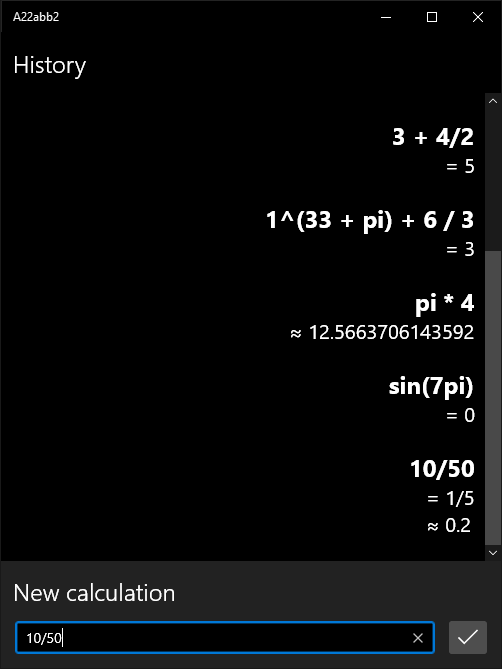
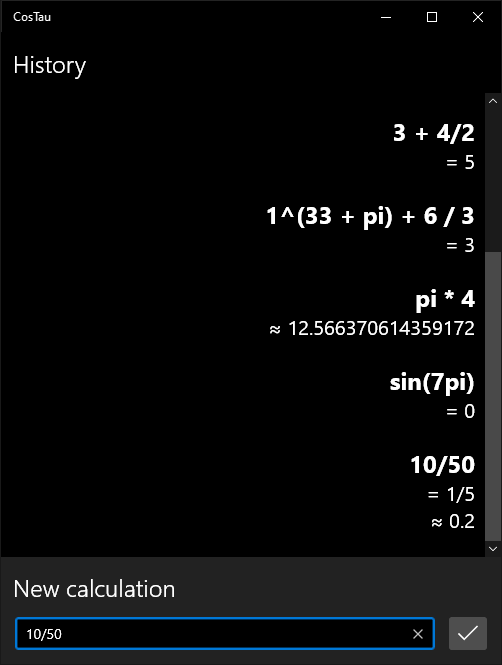
misc: Prepare for new release
Did the following changes:
- update screenshots
- bump version to 0.5.0
- write a better description

diff --git a/costau/CosTau/Properties/AssemblyInfo.cs b/costau/CosTau/Properties/AssemblyInfo.cs
@@ -24,6 +24,6 @@ using System.Runtime.InteropServices;
 // You can specify all the values or you can default the Build and Revision Numbers 
 // by using the '*' as shown below:
 // [assembly: AssemblyVersion("1.0.*")]
-[assembly: AssemblyVersion("0.4.0.0")]
-[assembly: AssemblyFileVersion("0.4.0.0")]
+[assembly: AssemblyVersion("0.5.0.0")]
+[assembly: AssemblyFileVersion("0.5.0.0")]
 [assembly: ComVisible(false)]
